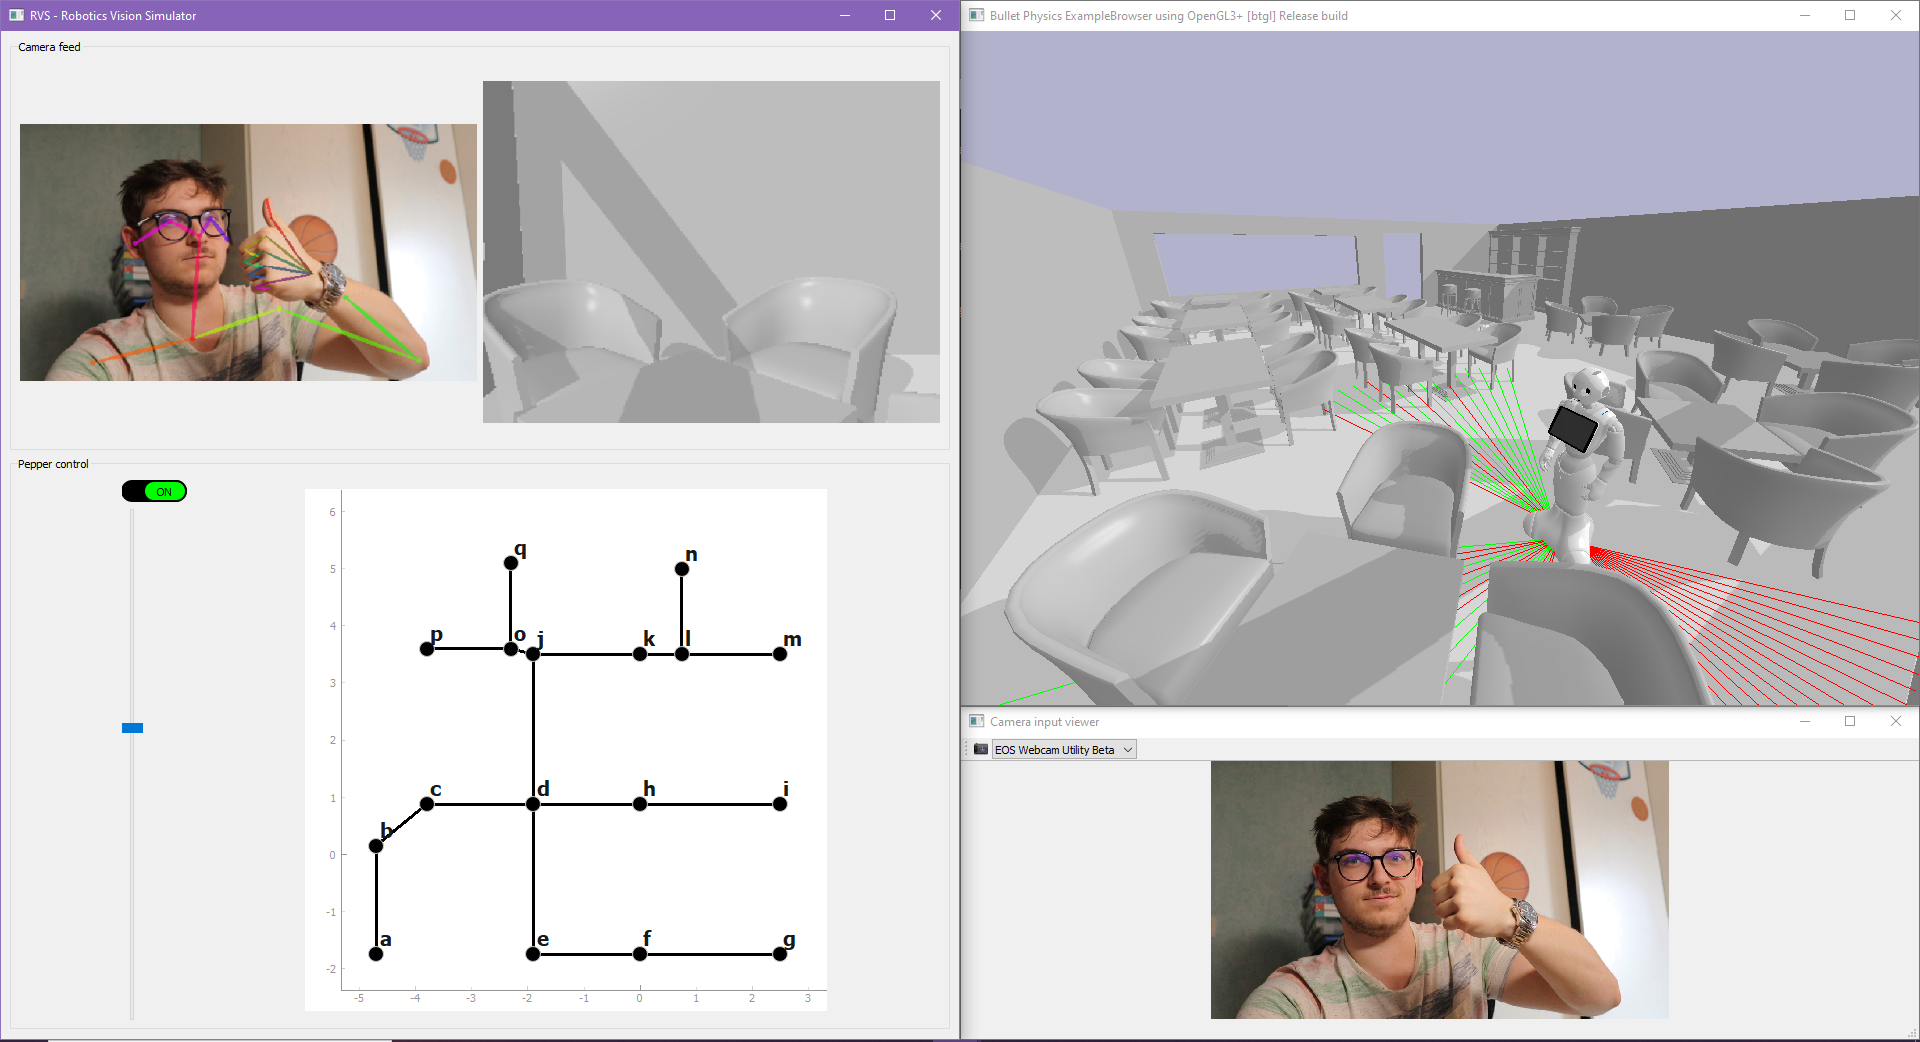
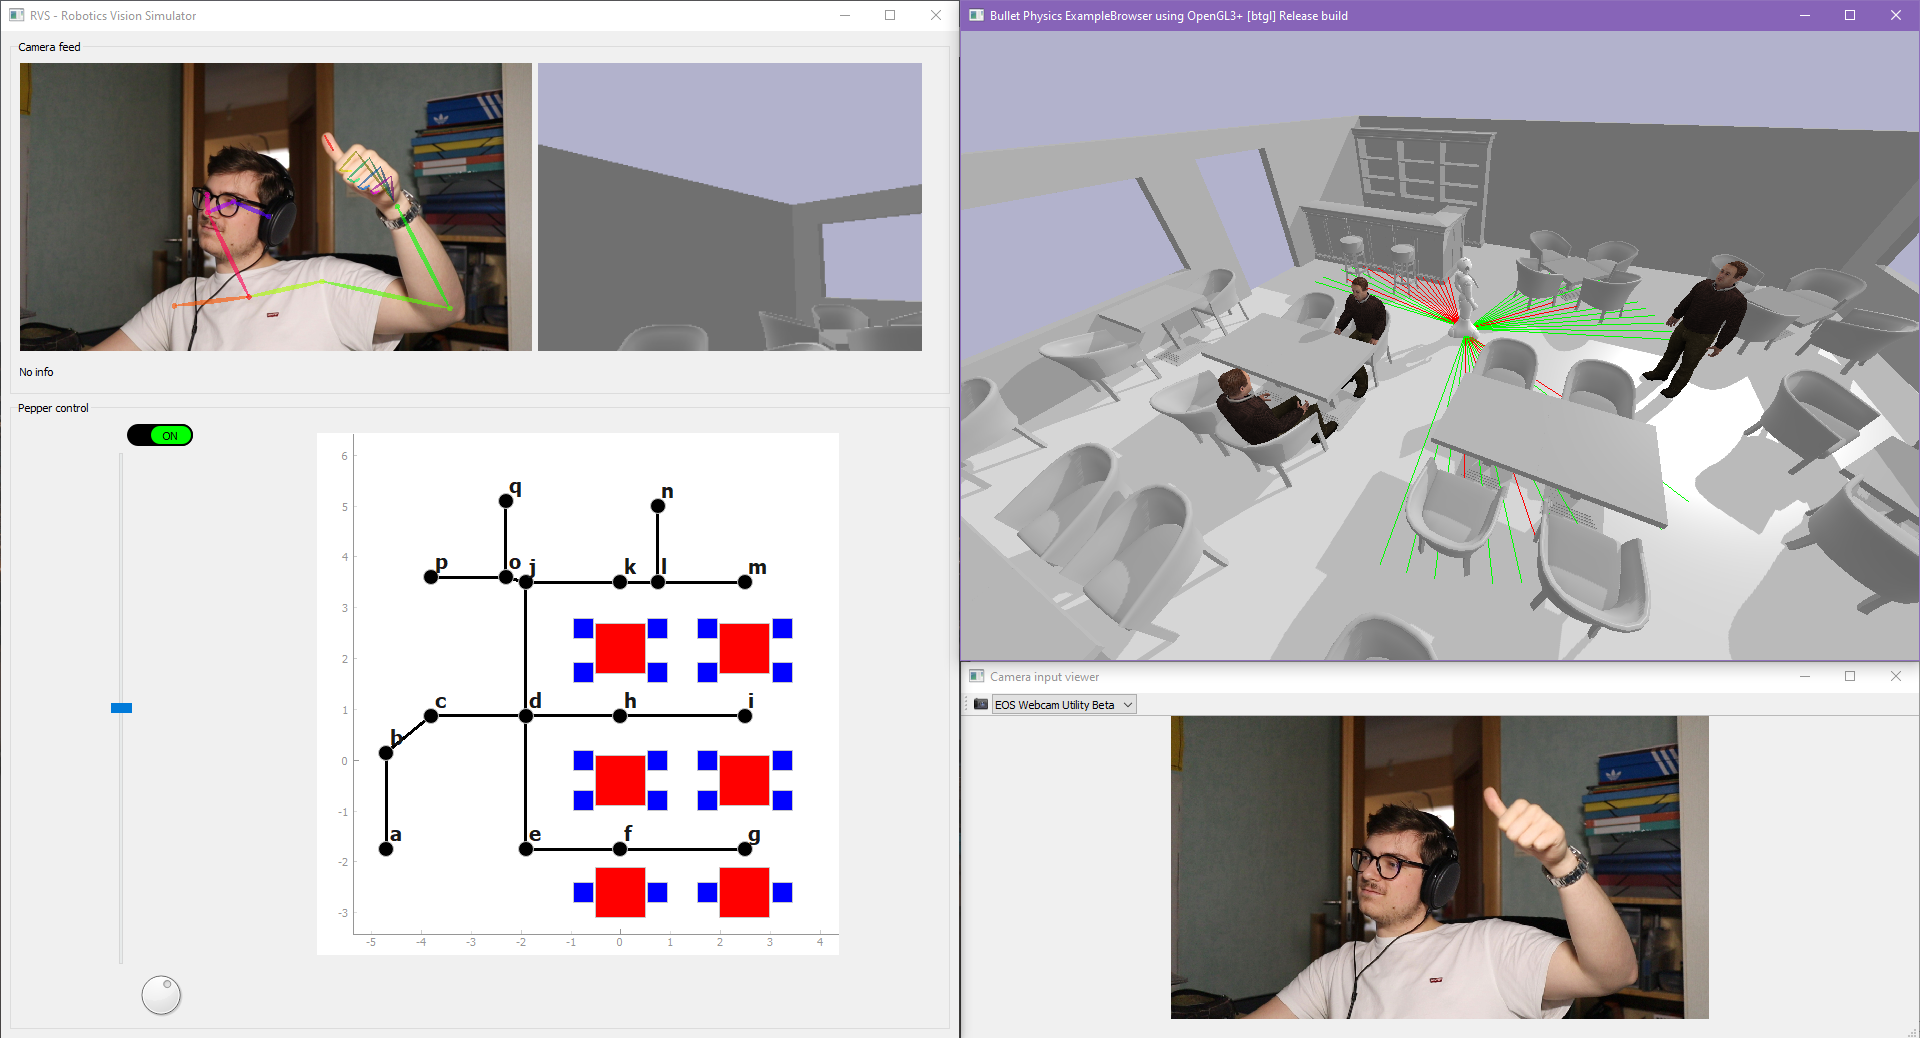
Add hand data formatting

diff --git a/App/VideoAnalysis.py b/App/VideoAnalysis.py
@@ -6,6 +6,7 @@ import sys
 import os
 from Util import SwitchButton
 import pyqtgraph as pg
+import numpy as np
 
 from PyQt5 import QtWidgets as Qtw
 from PyQt5.QtCore import Qt, QThread,  pyqtSignal, pyqtSlot
@@ -104,17 +105,18 @@ class VideoAnalysisThread(QThread):
                     self.lastTime = time.time()
 
                     frame = self.videoSource.getLastFrame()
-                    frame = resizeCvFrame(frame, 0.5)
-                    self.datum.cvInputData = frame
-                    self.opWrapper.emplaceAndPop([self.datum])
-                    frameOutput = self.datum.cvOutputData
+                    if type(frame) != type(None): #Check if frame exist, frame!=None is ambigious when frame is an array
+                        frame = resizeCvFrame(frame, 0.5)
+                        self.datum.cvInputData = frame
+                        self.opWrapper.emplaceAndPop([self.datum])
+                        frameOutput = self.datum.cvOutputData
 
-                    rgbImage = cv2.cvtColor(frameOutput, cv2.COLOR_BGR2RGB)
-                    h, w, ch = rgbImage.shape
-                    bytesPerLine = ch * w
-                    convertToQtFormat = QImage(rgbImage.data, w, h, bytesPerLine, QImage.Format_RGB888)
-                    p = convertToQtFormat.scaled(self.videoWidth, self.videoHeight, Qt.KeepAspectRatio)
-                    self.newPixmap.emit(p)
+                        rgbImage = cv2.cvtColor(frameOutput, cv2.COLOR_BGR2RGB)
+                        h, w, ch = rgbImage.shape
+                        bytesPerLine = ch * w
+                        convertToQtFormat = QImage(rgbImage.data, w, h, bytesPerLine, QImage.Format_RGB888)
+                        p = convertToQtFormat.scaled(self.videoWidth, self.videoHeight, Qt.KeepAspectRatio)
+                        self.newPixmap.emit(p)
     
     @pyqtSlot(bool)
     def setState(self, s:bool):
@@ -134,16 +136,19 @@ class VideoViewer(Qtw.QGroupBox):
     def __init__(self):
         super().__init__('Camera feed')
 
-        self.layout=Qtw.QHBoxLayout(self)
+        self.layout=Qtw.QGridLayout(self)
         self.setLayout(self.layout)
 
         self.rawCamFeed = Qtw.QLabel(self)
         #self.label.setScaledContents(True)
         #self.rawCamFeed.setFixedSize(854,480)
-        self.layout.addWidget(self.rawCamFeed)
+        self.layout.addWidget(self.rawCamFeed,0,0,1,1)
+
+        self.infoLabel = Qtw.QLabel('No info')
+        self.layout.addWidget(self.infoLabel,1,0,1,1)
 
         self.pepperCamFeed = Qtw.QLabel(self)
-        self.layout.addWidget(self.pepperCamFeed)
+        self.layout.addWidget(self.pepperCamFeed,0,1,1,1)
 
         self.autoAdjustable = False
 
@@ -175,20 +180,27 @@ class VideoViewer(Qtw.QGroupBox):
     def setVideoSize(self, width:int, height:int):
         self.rawCamFeed.setFixedSize(width,height)
     
+    def setInfoText(self, info:str):
+        if info:
+            self.infoLabel.setText(info)
+        else:
+            self.infoLabel.setText('')
+    
 
 class TrainingWidget(Qtw.QWidget):
     def __init__(self, parent = None):
         super(TrainingWidget, self).__init__(parent)
 
-        self.layout=Qtw.QVBoxLayout(self)
+        self.layout=Qtw.QGridLayout(self)
+        self.layout.setColumnStretch(1,2)
         self.setLayout(self.layout)
         self.parent = parent
 
         self.simButton = SwitchButton(self)
-        self.layout.addWidget(self.simButton)
+        self.layout.addWidget(self.simButton,1,0,1,1)
 
         self.VideoViewer = VideoViewer()
-        self.layout.addWidget(self.VideoViewer)
+        self.layout.addWidget(self.VideoViewer,0,0,1,1)
 
         self.cameraInput = CameraInput()
 
@@ -205,29 +217,59 @@ class TrainingWidget(Qtw.QWidget):
         self.simButton.setChecked(True)
 
         self.graphWidget = pg.PlotWidget()
-        self.layout.addWidget(self.graphWidget)
         self.graphWidget.setBackground('w')
-
-        self.graphWidget.plot([0],[0], symbol='o', symbolSize=5, symbolBrush=('k'))
+        self.graphWidget.setXRange(-0.5, 0.5)
+        self.graphWidget.setYRange(-0.5, 0.5)
+        #self.graphWidget.setMinimumSize(videoHeight,videoHeight)
+        self.graphWidget.setAspectLocked(True)
+        self.layout.addWidget(self.graphWidget, 0,1,2,1)
     
     def analyseNewImage(self, image):
-        leftHand = 0
-        rightHand = 1
-        personId = 0
+        self.graphWidget.clear()
+        rightHandKeys = self.handDataFormatting(1)
+        if type(rightHandKeys) != type(None):
+            #print(rightHandKeys)
+            self.drawHand(rightHandKeys)
 
-        rightHandKeypoints = self.AnalysisThread.datum.handKeypoints[rightHand][personId]
-        leftHandKeypoints = self.AnalysisThread.datum.handKeypoints[leftHand][personId]
-        #print('\n\n Left hand detected:')
-        #print(leftHandKeypoints)
-        #print('\n Right hand detected:')
-        #print(rightHandKeypoints)
+    def handDataFormatting(self, handID:int):
+        ''' handID (int): 0->Left / 1->Right '''
+        personID = 0
+        outputArray = None
 
-        rightHandKeypoints_X = list(map(list,zip(*rightHandKeypoints)))[0]
-        rightHandKeypoints_Y = list(map(list,zip(*rightHandKeypoints)))[1]
-        rightHandKeypoints_score = list(map(list,zip(*rightHandKeypoints)))[2]
-        if sum(rightHandKeypoints_score)>0.1:
-            print('Right hand detected:')
+        handKeypoints = np.array(self.AnalysisThread.datum.handKeypoints)
+        nbrPersonDetected = handKeypoints.shape[1] if handKeypoints.ndim >2 else 0
 
+        infoText = ''
+        infoText += str(nbrPersonDetected) + (' person detected' if nbrPersonDetected<2 else  ' person detected')
+
+        if nbrPersonDetected > 0:
+            handDetected = (handKeypoints[handID, personID].T[2].sum() > 1.0)
+            if handDetected:
+                infoText += ', ' + ('Right' if handID==1 else 'Left') + ' hand of person ' + str(personID+1) + ' detected.'
+                normMax = (self.AnalysisThread.datum.handRectangles[personID][handID]).height
+
+                handCenterX = handKeypoints[handID, personID].T[0].sum() / handKeypoints.shape[2]
+                handCenterY = handKeypoints[handID, personID].T[1].sum() / handKeypoints.shape[2]
+                outputArray = np.array([(handKeypoints[handID, personID].T[0] - handCenterX)/normMax,
+                                        -(handKeypoints[handID, personID].T[1] - handCenterY)/normMax,
+                                        (handKeypoints[handID, personID].T[2])])
+        self.VideoViewer.setInfoText(infoText)
+        return outputArray
+    
+    def drawHand(self, handKeypoints:np.ndarray):
+        finger1 = handKeypoints[:, 0:5]
+        finger2 = np.insert(handKeypoints[:, 5:9].T, 0, handKeypoints[:,0], axis=0).T
+        finger3 = np.insert(handKeypoints[:, 9:13].T, 0, handKeypoints[:,0], axis=0).T
+        finger4 = np.insert(handKeypoints[:, 13:17].T, 0, handKeypoints[:,0], axis=0).T
+        finger5 = np.insert(handKeypoints[:, 17:21].T, 0, handKeypoints[:,0], axis=0).T
+
+        self.graphWidget.plot(finger1[0], finger1[1], symbol='o', symbolSize=7, symbolBrush=('r'))
+        self.graphWidget.plot(finger2[0], finger2[1], symbol='o', symbolSize=7, symbolBrush=('y'))
+        self.graphWidget.plot(finger3[0], finger3[1], symbol='o', symbolSize=7, symbolBrush=('g'))
+        self.graphWidget.plot(finger4[0], finger4[1], symbol='o', symbolSize=7, symbolBrush=('b'))
+        self.graphWidget.plot(finger5[0], finger5[1], symbol='o', symbolSize=7, symbolBrush=('m'))
+        #self.graphWidget.plot(handKeypoints[0], handKeypoints[1], symbol='o', symbolSize=5, symbolBrush=('k'))
+    
 
 if __name__ == "__main__":
     from PyQt5.QtCore import QCoreApplication

diff --git a/App/CameraInput.py b/App/CameraInput.py
@@ -23,7 +23,7 @@ class CameraInput(QMainWindow):
         if not self.available_cameras:
             pass #quit
 
-        self.lastImage = QImage('.\\Data\\temp.png')
+        self.lastImage = QImage('.\\Data\\tempInit.png')
         self.lastID = None
 
         self.status = QStatusBar()
